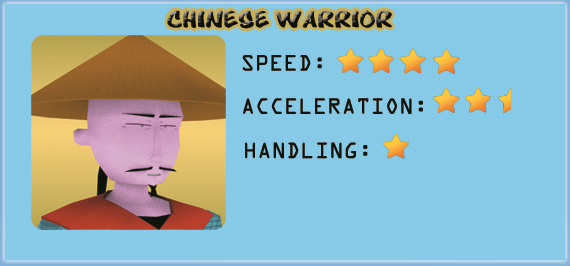
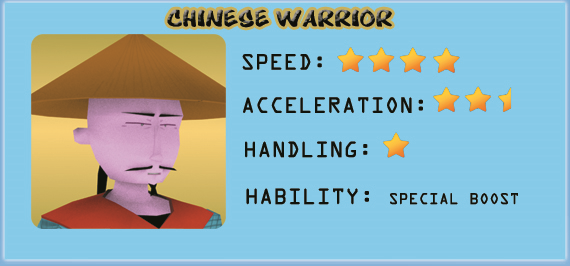
Red completa? :'(

diff --git a/Server/src/Corredor/Corredor.cpp b/Server/src/Corredor/Corredor.cpp
@@ -930,7 +930,7 @@ void Corredor::resetFuerzas() {
 }
 void Corredor::soltarItem() {
 	setTipoObj(EstadosJugador::estado_objeto::NADA);
-	setLimite(getLimite() + 10);
+	setLimite(getLimite() + 25);
 }
 
 /*
@@ -959,6 +959,7 @@ void Corredor::usarObjetos() {
 	float alt = 1;
 
 	if (getTipoObj() == 1) {		// PROYECTIL
+		posicion.setY(cuboNodo->getPosition().y);
 		Proyectil *pro = new Proyectil(posicion, escala, masa, tiempoDestruccion, CUBO, tamanyoNodo, radio, alt, cuboNodo->getID());
 		pro->lanzarItem(1, orientacion, CuerpoColisionChasis->getCenterOfMassTransform());// por defecto sera siempre 1, (cambiar esto para eliminarlo del constructor) PENDIENTE
 		pro->setLanzado(true);
@@ -986,7 +987,7 @@ void Corredor::usarObjetos() {
 		alt = 3;
 		masa = 30;
 		tiempoDestruccion = 0;
-		escala = btVector3(2, 2, 2);
+		escala = btVector3(2, 0.5, 2);
 		posicion.setX(cuboNodo->getPosition().x - orientacion.getX() * 10);
 		posicion.setZ(cuboNodo->getPosition().z - orientacion.getZ() * 10);
 		posicion.setY(cuboNodo->getPosition().y + alt);
@@ -1053,9 +1054,12 @@ void Corredor::usarObjetos() {
 	else if (tipoObj == 7)	//FLECHA TELEDIRIGIDA
 	{
 		//cout << "Teledirigido de Jugador " << this->getID() << " - posicion: " << posicionCarrera << endl;
+		tiempoDestruccion = 100;
 		alt = 1;
 		posicion.setY(posicion.getY() + alt);
-		ItemTeledirigido *pt = new ItemTeledirigido(posicion, escala, masa, 50, CUBO, tamanyoNodo, radio, alt, cuboNodo->getID());
+		posicion.setX(cuboNodo->getPosition().x - orientacion.getX() * -20);
+		posicion.setZ(cuboNodo->getPosition().z - orientacion.getZ() * -20);
+		ItemTeledirigido *pt = new ItemTeledirigido(posicion, escala, masa, tiempoDestruccion, CUBO, tamanyoNodo, radio, alt, cuboNodo->getID());
 		pt->setWaypoint(actual);
 		pt->lanzarItem(1, orientacion, CuerpoColisionChasis->getCenterOfMassTransform());// por defecto sera siempre 1, (cambiar esto para eliminarlo del constructor) PENDIENTE
 		pt->setLanzado(true);
@@ -1409,47 +1413,94 @@ void Corredor::actualizarRuedas() {
 	btVector3 zeroVector(0, 0, 0);
 	glm::vec3 axis(0, 0, 0);
 	float angle = 0;
+	float distanciax =0.5;
+	float distanciaxatras =0.5;
+	float distanciaix =0.5;
+	float distanciaixatras =0.5;
+	float largo=2;
+	float largoatras=1;
 
-	btTransform ruedas = vehiculo->getWheelTransformWS(0);
+
+	switch (tipojugador) {
+	case GLADIADOR:
+
+	distanciax =0.7;
+	distanciaxatras =0.7;
+	largo=0.4;
+	largoatras=0.2;
+	rueda1->setScale(2,2,2);
+	rueda2->setScale(2,2,2);
+	rueda3->setScale(2,2,2);
+	rueda4->setScale(2,2,2);
+	altura=1.3;
+
+	distanciaix =0.5;
+	distanciaixatras =0.5;
+
+	break;
+	
+	case PIRATA:
+	distanciax =0.8;
+	distanciaxatras =1.2;
+	largo=2;
+	largoatras=3;
+
+	distanciaix =0.4;
+	distanciaixatras =0.8;	
+	break;
+	case VIKINGO:
+
+	distanciax =0.4;
+	distanciaxatras =0.02;
+	largo=2;
+	largoatras=2;
+
+	distanciaix =0.3;
+	distanciaixatras =0.01;
+
+	break;
+
+	}
+	btTransform ruedas = vehiculo->getWheelTransformWS(1);
 
 	//rueda1
 
 	CuerpoColisionRueda1->setCenterOfMassTransform(ruedas);
-	rueda1->setPosition(ruedas.getOrigin().getX(), ruedas.getOrigin().getY() + altura, ruedas.getOrigin().getZ());
+	rueda1->setPosition(ruedas.getOrigin().getX() + orientacion.getZ() * -distanciax + orientacion.getX()*largo, ruedas.getOrigin().getY() + altura , ruedas.getOrigin().getZ() + orientacion.getX() * distanciax + orientacion.getZ()*largo);
 	axis = glm::vec3(ruedas.getRotation().getAxis().getX(), ruedas.getRotation().getAxis().getY(), ruedas.getRotation().getAxis().getZ());
 	angle = ruedas.getRotation().getAngle() * RADTODEG;
 	rueda1->setRotation(axis, angle);
 	//rueda1->setRotation(180,0,0);
 	//rueda2
-	ruedas = vehiculo->getWheelTransformWS(1);
+	ruedas = vehiculo->getWheelTransformWS(0);
 
 
 	CuerpoColisionRueda2->setCenterOfMassTransform(ruedas);
-	rueda2->setPosition(ruedas.getOrigin().getX(), ruedas.getOrigin().getY() + altura, ruedas.getOrigin().getZ());
+	rueda2->setPosition(ruedas.getOrigin().getX() + orientacion.getZ() * distanciaix + orientacion.getX()*largo, ruedas.getOrigin().getY() + altura , ruedas.getOrigin().getZ() + orientacion.getX() * -distanciaix + orientacion.getZ()*largo);
 	axis = glm::vec3(ruedas.getRotation().getAxis().getX(), ruedas.getRotation().getAxis().getY(), ruedas.getRotation().getAxis().getZ());
 	angle = ruedas.getRotation().getAngle() * RADTODEG;
 	rueda2->setRotation(axis, angle);
 
 
 	//rueda3
-	ruedas = vehiculo->getWheelTransformWS(2);
+	ruedas = vehiculo->getWheelTransformWS(3);
 
 
 	//CuerpoColisionRueda4->setAngularVelocity(zeroVector);
 	CuerpoColisionRueda4->setCenterOfMassTransform(ruedas);
-	rueda4->setPosition(ruedas.getOrigin().getX(), ruedas.getOrigin().getY() + altura, ruedas.getOrigin().getZ());
+	rueda4->setPosition(ruedas.getOrigin().getX() + orientacion.getZ() * -distanciaxatras + orientacion.getX()*largoatras, ruedas.getOrigin().getY() + altura  , ruedas.getOrigin().getZ() + orientacion.getX() * distanciaxatras + orientacion.getZ()*largoatras);
 	axis = glm::vec3(ruedas.getRotation().getAxis().getX(), ruedas.getRotation().getAxis().getY(), ruedas.getRotation().getAxis().getZ());
 	angle = ruedas.getRotation().getAngle() * RADTODEG;
 	rueda4->setRotation(axis, angle);
 
 
 	//rueda4
-	ruedas = vehiculo->getWheelTransformWS(3);
+	ruedas = vehiculo->getWheelTransformWS(2);
 
 
 	//CuerpoColisionRueda3->setAngularVelocity(zeroVector);
 	CuerpoColisionRueda3->setCenterOfMassTransform(ruedas);
-	rueda3->setPosition(ruedas.getOrigin().getX(), ruedas.getOrigin().getY() + altura, ruedas.getOrigin().getZ());
+	rueda3->setPosition(ruedas.getOrigin().getX() + orientacion.getZ() * distanciaixatras + orientacion.getX()*largoatras, ruedas.getOrigin().getY() + altura  , ruedas.getOrigin().getZ() + orientacion.getX() * -distanciaixatras + orientacion.getZ()*largoatras);
 	axis = glm::vec3(ruedas.getRotation().getAxis().getX(), ruedas.getRotation().getAxis().getY(), ruedas.getRotation().getAxis().getZ());
 	angle = ruedas.getRotation().getAngle() * RADTODEG;
 	rueda3->setRotation(axis, angle);
@@ -1489,7 +1540,7 @@ void Corredor::lanzarHabilidad() {
 			masa = 100;
 			radio = 12;
 			alt = 10;
-
+			tamanyoNodo = btVector3(12, 12, 12);
 			posicion.setY(posicion.getY() + alt);
 			habilidadJugador = new Habilidad(1, CuerpoColisionChasis, posicion, escala, masa, tiempoDestruccion, ESFERA, tamanyoNodo, radio, alt, cuboNodo->getID());
 			habilidadJugador->lanzarItem(1, orientacion, CuerpoColisionChasis->getCenterOfMassTransform());// por defecto sera siempre 1, (cambiar esto para eliminarlo del constructor) PENDIENTE
@@ -1502,7 +1553,7 @@ void Corredor::lanzarHabilidad() {
 			masa = 0;
 			radio = 8;
 			alt = 2;
-
+			tamanyoNodo = btVector3(0.5, 0.5, 0.5);
 			posicion.setY(posicion.getY() + alt);
 			habilidadJugador = new Habilidad(2, CuerpoColisionChasis, posicion, escala, masa, tiempoDestruccion, ESFERA, tamanyoNodo, radio, alt, cuboNodo->getID());
 			habilidadJugador->lanzarItem(1, orientacion, CuerpoColisionChasis->getCenterOfMassTransform());// por defecto sera siempre 1, (cambiar esto para eliminarlo del constructor) PENDIENTE
@@ -1510,7 +1561,8 @@ void Corredor::lanzarHabilidad() {
 			break;
 
 		case GLADIADOR:
-			escala = btVector3(30, 2, 30);
+			tamanyoNodo = btVector3(2, 1, 2);
+			escala = btVector3(30, 5 , 30);
 			tiempoDestruccion = 3;
 			habilidadJugador = new Habilidad(3, CuerpoColisionChasis, posicion, escala, masa, tiempoDestruccion, CILINDRO, tamanyoNodo, radio, alt, cuboNodo->getID());
 			habilidadJugador->lanzarItem(1, orientacion, CuerpoColisionChasis->getCenterOfMassTransform());// por defecto sera siempre 1, (cambiar esto para eliminarlo del constructor) PENDIENTE
@@ -1519,7 +1571,7 @@ void Corredor::lanzarHabilidad() {
 
 		case CHINO:
 			posicion = btVector3(cuboNodo->getPosition().x, cuboNodo->getPosition().y, cuboNodo->getPosition().z);
-			tamanyoNodo = btVector3(5, 5, 5);
+			tamanyoNodo = btVector3(1, 1, 1);
 			escala = btVector3(5, 7, 10);
 			masa = 100;
 			alt = 2;

diff --git a/Server/src/Item/Habilidad.cpp b/Server/src/Item/Habilidad.cpp
@@ -11,25 +11,25 @@ Habilidad::Habilidad(int tipo, btRigidBody* n, btVector3 posicion, btVector3 esc
 	switch (tipoHabilidad) {
 
 	case 1:
-		nodo = TMotor::instancia().newMeshNode("HabilidadPirata", strEscudo, "escena_raiz", false);
+		nodo = TMotor::instancia().newMeshNode("HabilidadPirata","assets/Habilidades/Pirata/HabilidadPirata.obj","escena_raiz", false);
 		nombre = "HabilidadPirata";
 		GestorIDs::instancia().setIdentifier(nodo, "HabilidadPirata");
 		break;
 
 	case 2:
-		nodo = TMotor::instancia().newMeshNode("HabilidadVikingo", strEscudo, "escena_raiz", false);
+		nodo = TMotor::instancia().newMeshNode("HabilidadVikingo", "assets/hacha/hacha.obj", "escena_raiz", false);
 		nombre = "HabilidadVikingo";
 		GestorIDs::instancia().setIdentifier(nodo, "HabilidadVikingo");
 		break;
 
 	case 3:
-		nodo = TMotor::instancia().newMeshNode("HabilidadGladiador", strEscudo, "escena_raiz", false);
+		nodo = TMotor::instancia().newMeshNode("HabilidadGladiador", "assets/Habilidades/Gladiador/HabGladiador.obj", "escena_raiz", false);
 		nombre = "HabilidadGladiador";
 		GestorIDs::instancia().setIdentifier(nodo, "HabilidadGladiador");
 		break;
 
 	case 4:
-		nodo = TMotor::instancia().newMeshNode("HabilidadChino", strEscudo, "escena_raiz", false);
+		nodo = TMotor::instancia().newMeshNode("HabilidadChino", "assets/Habilidades/Chino/habChino.obj", "escena_raiz", false);
 		nombre = "HabilidadChino";
 		GestorIDs::instancia().setIdentifier(nodo, "HabilidadChino");
 		break;
@@ -60,8 +60,8 @@ void Habilidad::lanzarItem(int direccion, btVector3 orientacion, btTransform obj
 
 	if (tipoHabilidad == 1) { // PIRATA
 		rigidBody->setActivationState(DISABLE_DEACTIVATION);
-		rigidBody->setGravity(btVector3(0, -300, 0));
-		rigidBody->setLinearVelocity(btVector3(orientacion.getX() * 300, 1.0f, orientacion.getZ() * 300));
+		rigidBody->setGravity(btVector3(0, -1000, 0));
+		rigidBody->setLinearVelocity(btVector3(orientacion.getX() * 410, 0.5f, orientacion.getZ() * 410));
 	}
 }
 
@@ -88,7 +88,7 @@ void Habilidad::movimiento() {
 		trans.setOrigin(btVector3(NodoVehiculo->getCenterOfMassPosition().getX() + orientacion.getX() * 15, NodoVehiculo->getCenterOfMassPosition().getY() + 5, NodoVehiculo->getCenterOfMassPosition().getZ() + orientacion.getZ() * 15));
 
 		orientacion = orientacion.rotate(btVector3(0, 1, 0), giro * PI / 180);
-		//nodo->setRotation(nodo->getRotation().x, cont, nodo->getRotation().z);
+		nodo->rotate(glm::vec3(0,1,0), cont);
 		//quaternion.setEulerZYX(0, nodo->getRotation().y * PI / 180, 0);
 
 		trans.setRotation(NodoVehiculo->getCenterOfMassTransform().getRotation());
@@ -108,9 +108,10 @@ void Habilidad::movimiento() {
 
 		nodo->setPosition(NodoVehiculo->getCenterOfMassPosition().getX(), NodoVehiculo->getCenterOfMassPosition().getY(), NodoVehiculo->getCenterOfMassPosition().getZ());
 
-		if (nodo->getScale().x <= 10)
-			nodo->setScale(nodo->getScale().x + 1, nodo->getScale().x, nodo->getScale().x + 1);
+		if (cont2 > 0){
+			nodo->setScale(nodo->getScale().x + 2, tamanyoNodo.getY(), nodo->getScale().z + 2);
 
+		}	
 		trans.setOrigin(btVector3(NodoVehiculo->getCenterOfMassPosition().getX(), NodoVehiculo->getCenterOfMassPosition().getY() + 2, NodoVehiculo->getCenterOfMassPosition().getZ()));
 		trans.setRotation(NodoVehiculo->getCenterOfMassTransform().getRotation());
 		rigidBody->setCenterOfMassTransform(trans);

diff --git a/Server/src/Corredor/CorredorIA.cpp b/Server/src/Corredor/CorredorIA.cpp
@@ -1142,7 +1142,7 @@ void CorredorIA::actualizarItem() {
 }
 
 CorredorIA::~CorredorIA() {
-	cout<<"ENTRO AL DSTRUCTOR IA"<<endl;
+	//cout<<"ENTRO AL DSTRUCTOR IA"<<endl;
 	delete arbolconduccion;
 	delete arbolobjetos;
 	animacionPrevia=nullptr;
